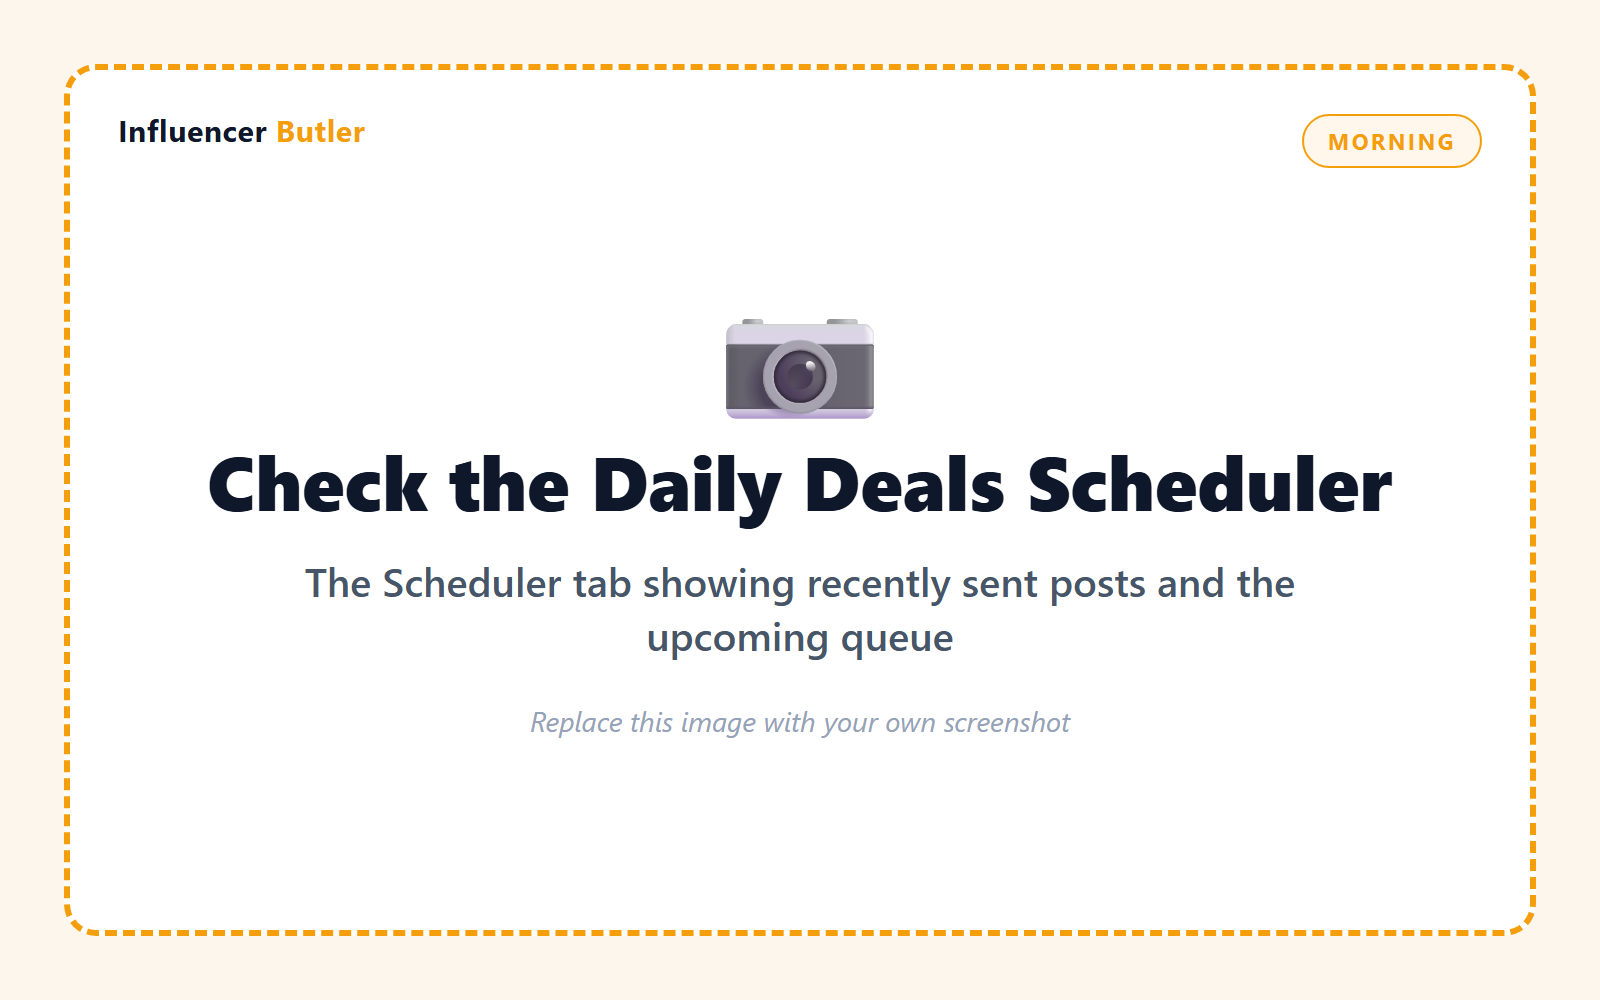
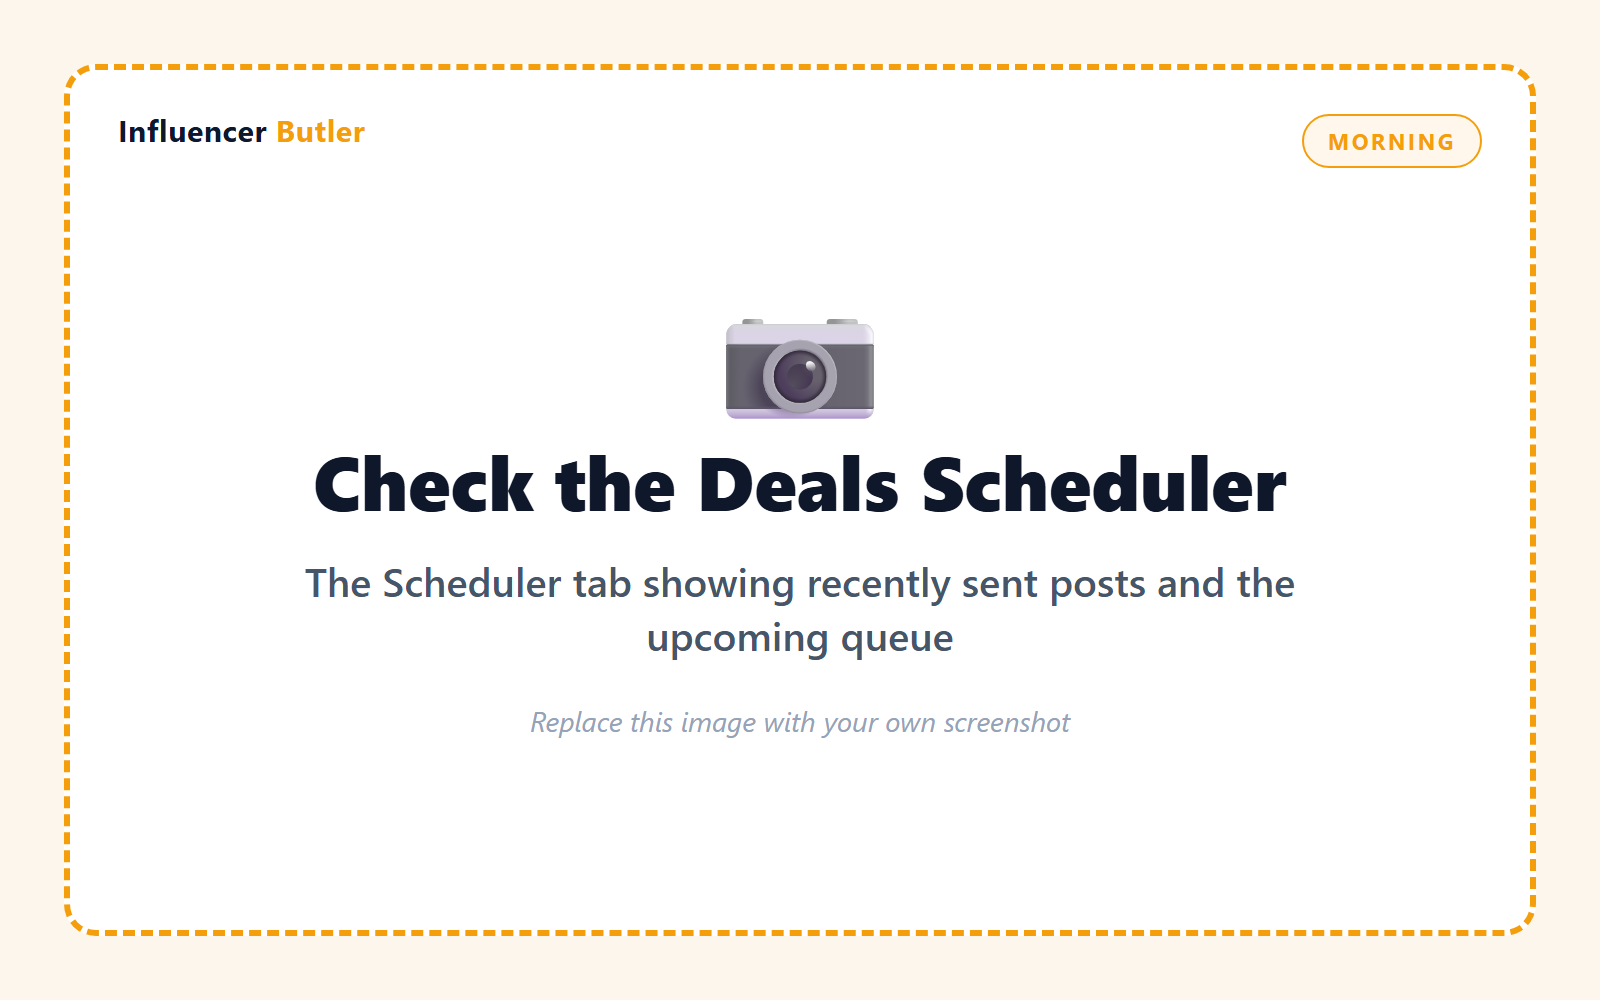
content: add honest Butler setup-time commitments across site + emails
Users expected full setup to be a one-day job. The site's own "your first
15 minutes" framing (getting-started tutorial + blog post) contradicted the
desktop app's own onboarding estimate of 30-90 minutes total, so retitled
and rewrote both to state the real range. Added a "Setup: ~X min" line to
39 Butler feature pages (sourced from the desktop app's per-step estimates
where available), and added one honest big-picture line to the day0 welcome
email in all four onboarding funnels, without touching the existing
accurate per-action estimates.

Also fixes a stale future "date" in content/blog/_index.json's duplicate
entry for the getting-started post that was silently 404ing the live page,
and regenerates its placeholder cover image since the old "fifteen minutes"
caption was baked into the PNG.

Changed region(s): [[0.125, 0.434, 0.875, 0.527]]

diff --git a/public/features/benable-comment-butler.html b/public/features/benable-comment-butler.html
@@ -72,6 +72,7 @@
                     </div>
                     <h1>Benable Comment Butler</h1>
                     <p class="feature-tagline">Drop short, friendly comments on Benable list items - AI-written from real Amazon product details, with a canned fallback when the API isn&rsquo;t available.</p>
+                    <p class="feature-setup-time">Setup: ~3-5 min</p>
                     <p class="ai-key-note" style="margin:0 0 1.25rem;font-size:0.9rem;line-height:1.7;color:#475569;"><span style="display:inline-block;margin-right:0.4rem;padding:0.1rem 0.6rem;border:1px solid #fed7aa;border-radius:999px;background:#fff7ed;color:#c2410c;font-size:0.75rem;font-weight:700;">Needs your OpenAI key</span> AI-written comments use your own OpenAI API key; without one, Butler can only post your canned phrases. You pay OpenAI directly for what you use (usually pennies), not Influencer Butler, and a ChatGPT subscription does not work. <a href="/help/tutorials/openai-api-setup" style="color:#c2410c;text-decoration:underline;">Set up your OpenAI key</a>.</p>
                     <div class="feature-hero-cta">
                         <a class="btn btn-primary btn-lg" href="/#pricing">Start free</a>

diff --git a/public/features/video-reload-butler.html b/public/features/video-reload-butler.html
@@ -72,6 +72,7 @@
                     </div>
                     <h1>Video Reload Butler</h1>
                     <p class="feature-tagline">Restores videos that Amazon removed, refreshes their info, and can flip them between horizontal and vertical for you.</p>
+                    <p class="feature-setup-time">Setup: ~5-15 min · you sign in to each marketplace</p>
                     <p class="ai-key-note" style="margin:0 0 1.25rem;font-size:0.9rem;line-height:1.7;color:#475569;"><span style="display:inline-block;margin-right:0.4rem;padding:0.1rem 0.6rem;border:1px solid #fed7aa;border-radius:999px;background:#fff7ed;color:#c2410c;font-size:0.75rem;font-weight:700;">Needs your OpenAI key</span> Translated titles and captions use your own OpenAI API key. You pay OpenAI directly for what you use (usually pennies), not Influencer Butler, and a ChatGPT subscription does not work. <a href="/help/tutorials/openai-api-setup" style="color:#c2410c;text-decoration:underline;">Set up your OpenAI key</a>.</p>
                     <div class="feature-hero-cta">
                         <a class="btn btn-primary btn-lg" href="/#pricing">Start free</a>

diff --git a/public/features/deals-butler.html b/public/features/deals-butler.html
@@ -72,6 +72,7 @@
                     </div>
                     <h1>Deals Butler</h1>
                     <p class="feature-tagline">Finds hot deals that match your filters and lines them up for posting.</p>
+                    <p class="feature-setup-time">Setup: ~10-15 min to configure, then runs automatically</p>
                     <p class="ai-key-note" style="margin:0 0 1.25rem;font-size:0.9rem;line-height:1.7;color:#475569;"><span style="display:inline-block;margin-right:0.4rem;padding:0.1rem 0.6rem;border:1px solid #fed7aa;border-radius:999px;background:#fff7ed;color:#c2410c;font-size:0.75rem;font-weight:700;">Needs your OpenAI key</span> AI caption features (caption voice and shorten titles) need your own OpenAI API key. You pay OpenAI directly for what you use (usually pennies), not Influencer Butler, and a ChatGPT subscription does not work. <a href="/help/tutorials/openai-api-setup" style="color:#c2410c;text-decoration:underline;">Set up your OpenAI key</a>.</p>
                     <div class="feature-hero-cta">
                         <a class="btn btn-primary btn-lg" href="/#pricing">Start free</a>

diff --git a/public/features/benable-butler.html b/public/features/benable-butler.html
@@ -72,6 +72,7 @@
                     </div>
                     <h1>Benable Butler</h1>
                     <p class="feature-tagline">Build a Benable collection from one keyword. The AI handles the rest.</p>
+                    <p class="feature-setup-time">Setup: ~2-5 min</p>
                     <p class="ai-key-note" style="margin:0 0 1.25rem;font-size:0.9rem;line-height:1.7;color:#475569;"><span style="display:inline-block;margin-right:0.4rem;padding:0.1rem 0.6rem;border:1px solid #fed7aa;border-radius:999px;background:#fff7ed;color:#c2410c;font-size:0.75rem;font-weight:700;">Needs your OpenAI key</span> The AI in Benable Butler (strategy, product search, and per-item notes) uses your own OpenAI API key. You pay OpenAI directly for what you use (usually pennies), not Influencer Butler, and a ChatGPT subscription does not work. <a href="/help/tutorials/openai-api-setup" style="color:#c2410c;text-decoration:underline;">Set up your OpenAI key</a>.</p>
                     <div class="feature-hero-cta">
                         <a class="btn btn-primary btn-lg" href="/#pricing">Start free</a>

diff --git a/public/features/pinterest-butler.html b/public/features/pinterest-butler.html
@@ -72,6 +72,7 @@
                     </div>
                     <h1>Pinterest Butler</h1>
                     <p class="feature-tagline">Idea Lists in. Pinterest pins out. <strong>Beta. Coming soon.</strong></p>
+                    <p class="feature-setup-time">Setup: ~3-10 min (beta)</p>
                     <p class="ai-key-note" style="margin:0 0 1.25rem;font-size:0.9rem;line-height:1.7;color:#475569;"><span style="display:inline-block;margin-right:0.4rem;padding:0.1rem 0.6rem;border:1px solid #fed7aa;border-radius:999px;background:#fff7ed;color:#c2410c;font-size:0.75rem;font-weight:700;">Needs your OpenAI key</span> The AI-written SEO copy uses your own OpenAI API key. You pay OpenAI directly for what you use (usually pennies), not Influencer Butler, and a ChatGPT subscription does not work. <a href="/help/tutorials/openai-api-setup" style="color:#c2410c;text-decoration:underline;">Set up your OpenAI key</a>.</p>
                     <div class="feature-hero-cta">
                         <a class="btn btn-primary btn-lg" href="/#pricing">Get notified</a>

diff --git a/public/features/voiceover-butler.html b/public/features/voiceover-butler.html
@@ -72,6 +72,7 @@
                     </div>
                     <h1>Voiceover Butler</h1>
                     <p class="feature-tagline">AI voiceover that sounds like you - with FTC disclosures baked in.</p>
+                    <p class="feature-setup-time">Setup: ~5-10 min</p>
                     <p class="ai-key-note" style="margin:0 0 1.25rem;font-size:0.9rem;line-height:1.7;color:#475569;"><span style="display:inline-block;margin-right:0.4rem;padding:0.1rem 0.6rem;border:1px solid #fed7aa;border-radius:999px;background:#fff7ed;color:#c2410c;font-size:0.75rem;font-weight:700;">Needs your OpenAI key</span> Voiceover Butler writes scripts with your own OpenAI API key. You pay OpenAI directly for what you use (usually pennies), not Influencer Butler, and a ChatGPT subscription does not work. <a href="/help/tutorials/openai-api-setup" style="color:#c2410c;text-decoration:underline;">Set up your OpenAI key</a>.</p>
                     <div class="feature-hero-cta">
                         <a class="btn btn-primary btn-lg" href="/#pricing">Start free</a>

diff --git a/src/lib/pro-emails.ts b/src/lib/pro-emails.ts
@@ -49,6 +49,8 @@ export const PRO_COPY: Record<ProTier, TierCopy> = {
         `  2. Paste your license key (on your welcome page) into the app`,
         `  3. Log in to Amazon inside the app and run Orders Butler to sync your history`,
         ``,
+        `Quick heads-up on timing: that first run only takes a couple of minutes, but setting up everything end to end (storefront, Creator Connections, every butler you want running) is more like a 30-90 minute project you do once, mostly hands-off. No need to rush it in one sitting.`,
+        ``,
         `Prefer to start in your browser? The free Chrome extension works on every account: https://www.influencerbutler.com/extension`,
         ``,
         `One setup note: the AI butlers use your own OpenAI API key. You pay OpenAI directly for what you use (usually pennies), not Influencer Butler. A ChatGPT subscription does not work. The AI Assistant is included free. Setup guide: ${OPENAI_SETUP_URL}`,

diff --git a/src/lib/free-onboarding-emails.ts b/src/lib/free-onboarding-emails.ts
@@ -63,6 +63,8 @@ export const ONBOARDING_COPY: Record<OnboardingTier, TierCopy> = {
         ``,
         `All of that is on the free-forever plan: ${FREE_BUTLERS}. No card, no expiry.`,
         ``,
+        `Those 3 steps really are about 3 minutes. If you later add more butlers (brand campaigns, Creator Connections, the Amazon Influencer Program steps), budget more like 30-90 minutes total for the full setup, mostly hands-off. No rush either way.`,
+        ``,
         `One setup note for later: the AI butlers use your own OpenAI API key. You pay OpenAI directly for what you use (usually pennies), not Influencer Butler. A ChatGPT subscription does not work. The AI Assistant is included free. Setup guide: ${OPENAI_SETUP_URL}`,
         ``,
         `Prefer to start in your browser? The free Chrome extension works on every account: ${v.extensionUrl}`,

diff --git a/public/features/campaign-butler.html b/public/features/campaign-butler.html
@@ -72,6 +72,7 @@
                     </div>
                     <h1>Campaign Butler</h1>
                     <p class="feature-tagline">One cockpit for the Creator Connections and SPCC grid. <strong>Campaign Radar</strong> scores every card with fill meters, <strong>Last Call</strong> alerts you before a good one closes, the <strong>Butler's Brief</strong> gives you a verdict on what to film, and <strong>Idea List Butler</strong> carries the same money signals into your saved items.</p>
+                    <p class="feature-setup-time">Setup: ~5-10 min</p>
                     <div class="feature-hero-cta">
                         <a class="btn btn-primary btn-lg" href="/for-creator-connections">See the Creator Connections cockpit</a>
                         <a class="btn btn-outline btn-lg" href="/#features">See all tools</a>

diff --git a/src/lib/app-trial-emails.ts b/src/lib/app-trial-emails.ts
@@ -83,6 +83,8 @@ export const APP_TRIAL_COPY: Record<AppTrialTier, TierCopy> = {
         ``,
         `The fastest way to get it is to run one butler today. Open the app and start with Daily Commission Butler. It pulls your Amazon commissions automatically so you can see your real numbers without touching a spreadsheet. Two minutes, and you'll understand the whole product.`,
         ``,
+        `Heads-up on the bigger picture: that first run is two minutes, but getting every butler you want set up end to end is more like a 30-90 minute project, mostly hands-off. Spread it across a few sittings. No need to do it all today.`,
+        ``,
         OPENAI_KEY_NOTE,
         ``,
         `One favor: hit reply and tell me what you're hoping this saves you from. I read every one, and it shapes what I build next.`,

diff --git a/public/features/walmart-butler.html b/public/features/walmart-butler.html
@@ -72,6 +72,7 @@
                     </div>
                     <h1>Walmart Butler</h1>
                     <p class="feature-tagline">Two Walmart tools under one butler. <strong>Walmart Research</strong> builds price, rank, and sales history for the products you touch. <strong>Walmart Repost</strong> copies your Amazon storefront videos and photos to your Walmart Creator storefront, hands-free, only on an exact barcode match.</p>
+                    <p class="feature-setup-time">Setup: ~5-15 min · you sign in to each marketplace</p>
                     <div class="feature-hero-cta">
                         <a class="btn btn-primary btn-lg" href="/#pricing">Start free trial</a>
                         <a class="btn btn-outline btn-lg" href="/#features">See all tools</a>

diff --git a/src/lib/trial-emails.ts b/src/lib/trial-emails.ts
@@ -66,6 +66,8 @@ export const TRIAL_COPY: Record<TrialTier, TierCopy> = {
         `  2. Paste your license key (on your welcome page) into the app`,
         `  3. Log in to Amazon inside the app and run Orders Butler to sync your history`,
         ``,
+        `Quick heads-up on timing: that first run only takes a couple of minutes, but setting up everything end to end (storefront, Creator Connections, every butler you want running) is more like a 30-90 minute project you do once, mostly hands-off. No need to rush it in one sitting.`,
+        ``,
         `Prefer to start in your browser? The free Chrome extension works on every account: https://www.influencerbutler.com/extension`,
         ``,
         OPENAI_KEY_NOTE,
